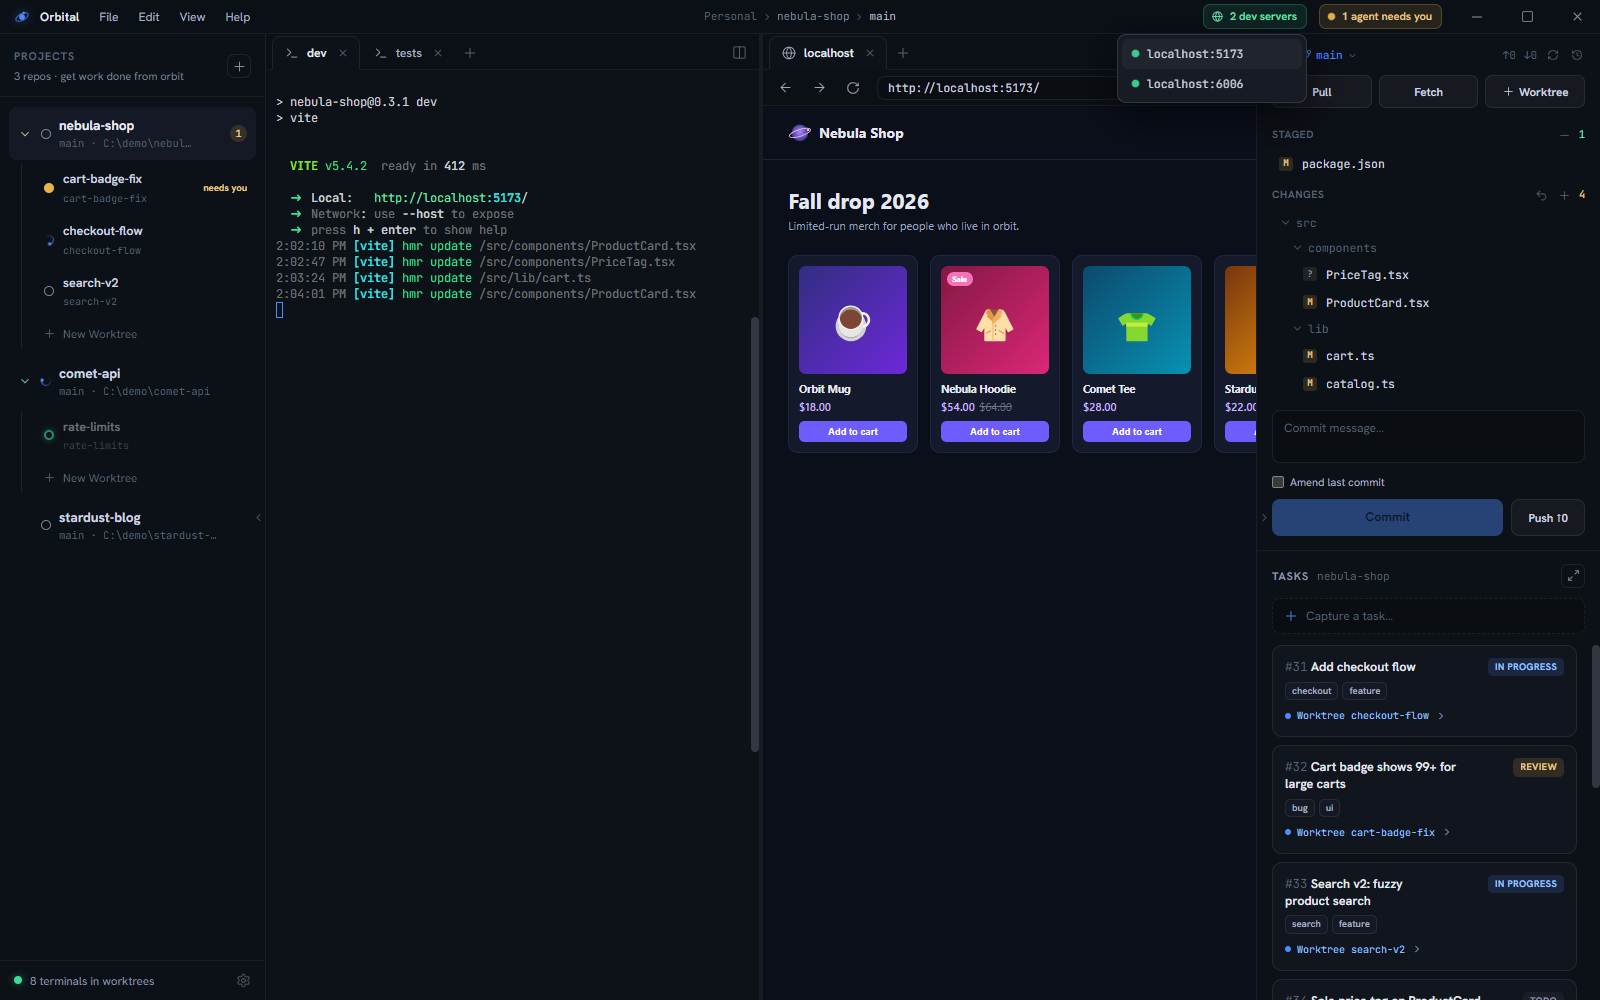
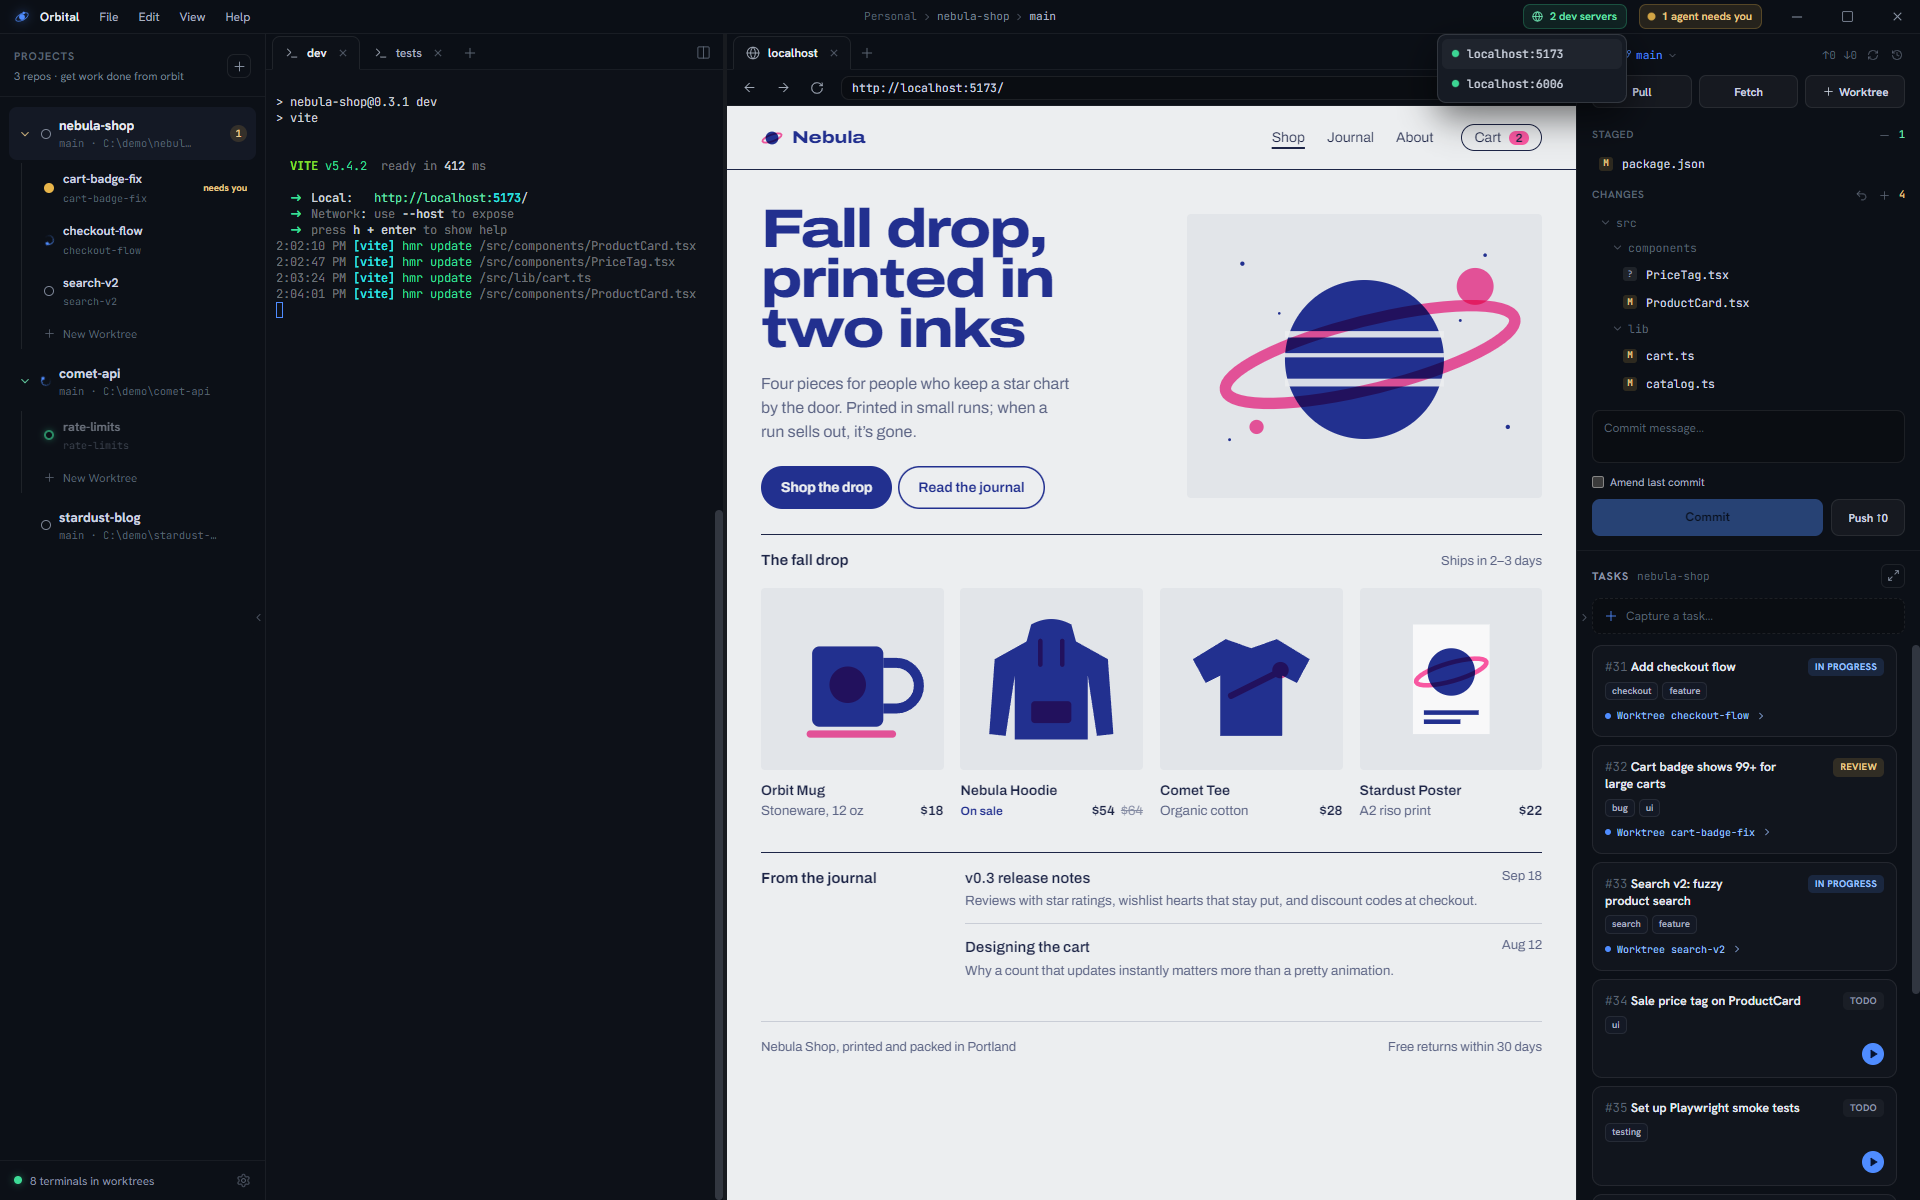
docs: editor features, retaken screenshots, titlebar dot fix
Document the editor work that shipped without docs: preview pills,
resizable file tree, folder tiles, selection-occurrence highlights,
code folding, and the find/replace widget, plus their shortcuts.

Retake all 20 website screenshots at 1920x1200 with a new demo
storefront in the browser pane, captured via capturePage() so the
pane isn't mis-scaled. Reset Starlight's sibling margin on the
mock window's titlebar dots so they line up.

Claude-Session: https://claude.ai/code/session_014gPtk3MdCMedKpoTyynXoQ

diff --git a/website/src/styles/custom.css b/website/src/styles/custom.css
@@ -397,6 +397,9 @@ h1[data-page-title] {
 }
 
 .ob-shot-bar i {
+  /* Starlight's markdown flow spacing adds margin-top to every sibling after the first. */
+  margin: 0;
+  flex: none;
   width: 9px;
   height: 9px;
   border-radius: 999px;
@@ -416,7 +419,7 @@ h1[data-page-title] {
   opacity: 0.7;
 }
 .ob-shot-bar span {
-  margin-left: 0.5rem;
+  margin: 0 0 0 0.5rem;
 }
 
 .ob-shot img {

diff --git a/website/src/content/docs/guides/editor.md b/website/src/content/docs/guides/editor.md
@@ -1,12 +1,12 @@
 ---
 title: The editor
-description: File tree, open-file pills, syntax-highlighted source and diffs, find in file, previews, images, and quick edits.
+description: File tree, folder tiles, open-file pills, syntax-highlighted source and diffs, code folding, find and replace, previews, images, and quick edits.
 ---
 
 An **editor tab** shows the active worktree's files: a tree on the left, and on
 the right a strip of open-file pills above the selected file.
 
-![The editor: file tree with icons and git badges, open-file pills, a line-number gutter and the find bar](../../../assets/screenshots/19-editor-file.png)
+![The editor: file tree with icons and git badges, open-file pills, a line-number gutter and the find-and-replace widget](../../../assets/screenshots/19-editor-file.png)
 
 ## Open files
 
@@ -18,6 +18,14 @@ back). Closing it asks whether to save, discard or cancel.
 Files from the git panel, the command palette and search results open as pills
 in the editor you're already using, instead of a new tab each.
 
+### Preview pills
+
+A single click on a file in the tree opens it as a **preview**: its pill label
+is italic, and the next single click replaces it rather than piling up another
+pill. Double-click the file (in the tree, a folder tile or its pill), edit it,
+or save it to keep it open. Files opened by name — from the git panel, the
+palette, a tab's config or **New File…** — open as kept pills straight away.
+
 ## The file tree
 
 - Tracked and untracked files, directories first. Each file has an icon for
@@ -28,6 +36,9 @@ in the editor you're already using, instead of a new tab each.
   ignored trees cost nothing until you open them.
 - Changed files carry their git badge (`M`, `A`, `D`, `?`, …); collapsed
   directories containing changes get an amber dot.
+- Drag the separator between the tree and the file to resize it. The width is
+  remembered; double-click the separator to reset it, or focus it and nudge
+  with the arrow keys.
 - The tree follows the repo live — agent edits and commits re-badge it
   automatically.
 - Right-click a row for **New File…**, **New Folder…**, **Rename…**, **Copy
@@ -35,6 +46,14 @@ in the editor you're already using, instead of a new tab each.
   default app, **Open in Terminal** (folders), git stage / unstage / discard,
   and **Delete** (to the recycle bin). Names are typed right in the menu, and
   names Windows can't represent (`CON`, a trailing dot, `:`) are refused.
+
+### Folder tiles
+
+Clicking a folder in the tree (or in the breadcrumb) also shows its entries as
+tiles in the content area. Images get real thumbnails, loaded as their tiles
+scroll into view; everything else shows its type icon. Click a file tile to
+preview it and double-click to keep it. Click a folder tile to select it, and
+double-click it (or press **Enter**) to go inside.
 
 ## File mode
 
@@ -49,19 +68,39 @@ switch to another pill. Right-click the text for Undo, Redo, Cut, Copy, Paste
 and Select All. It's for config tweaks and small fixes, not a replacement for
 your IDE.
 
+Selecting text highlights its other occurrences in the file, so you can see at
+a glance where else a name is used.
+
 Oversized files and diffs are refused up front with a message saying why,
 rather than freezing the tab.
 
-### Find in file
+### Code folding
 
-**Ctrl+F** opens a find bar over the top-right of the code, seeded with whatever
-you had selected. Every match is highlighted as you type and the current one is
-ringed; the count reads `3 of 17`.
+Chevrons beside the line numbers fold and unfold blocks. Fold ranges follow
+indentation; in Markdown they follow headings. A folded block collapses to its
+header line with a `...` chip; click the chip or the chevron to open it again.
+With the caret in a block, **Ctrl+Shift+[** folds it and **Ctrl+Shift+]**
+unfolds it. You can keep editing while code is folded — the hidden lines are
+left untouched and saved as they were.
+
+### Find and replace
+
+**Ctrl+F** opens a find widget over the top-right of the code, seeded with
+whatever you had selected. Every match is highlighted as you type and the
+current one is ringed; the count reads `3 of 17`.
 
 - **Enter** / **Shift+Enter** step forward and back, wrapping at the ends. So do
   **F3** / **Shift+F3**, which keep working while you carry on typing in the file.
-- **Aa** narrows to an exact-case match.
-- **Esc** closes the bar and leaves the caret on the match you stopped at.
+- Toggles in the find box narrow the search: **match case** (**Alt+C**),
+  **whole word** (**Alt+W**) and **regular expression** (**Alt+R**). A pattern
+  that doesn't compile is marked invalid instead of matching nothing silently.
+- **Ctrl+H**, or the chevron at the left of the widget, opens the replace row.
+  **Enter** there replaces the current match; **Ctrl+Alt+Enter** replaces them
+  all. With regex on, `$1` and named groups (`$<name>`) expand in the
+  replacement.
+- A replace is a single undo step, and **Replace all** reaches matches inside
+  folded code too.
+- **Esc** closes the widget and leaves the caret on the match you stopped at.
 
 Stepping only scrolls when the match is off screen, sideways as well as down —
 a hit past the right edge of a long line is no more found than one below the fold.

diff --git a/website/src/content/docs/reference/keyboard-shortcuts.md b/website/src/content/docs/reference/keyboard-shortcuts.md
@@ -49,9 +49,14 @@ terminal sees the key.
 |---|---|
 | Ctrl+S | Save the active file |
 | Ctrl+F | Find in file |
-| Enter / Shift+Enter | Next / previous match (in the find bar) |
+| Ctrl+H | Find and replace |
+| Enter / Shift+Enter | Next / previous match (in the find box) |
 | F3 / Shift+F3 | Next / previous match, while typing in the file |
-| Esc | Close the find bar |
+| Alt+C / Alt+W / Alt+R | Toggle match case / whole word / regex (in the find widget) |
+| Enter | Replace the current match (in the replace box) |
+| Ctrl+Alt+Enter | Replace all matches |
+| Esc | Close the find widget |
+| Ctrl+Shift+[ / Ctrl+Shift+] | Fold / unfold the block at the caret |
 | Tab | Indent (two spaces) |
 
 ## Git panel

diff --git a/README.md b/README.md
@@ -73,7 +73,8 @@ Code. The full product spec lives in
   cleans itself up.
 - **Browser** — plain-click a URL in any terminal and it opens as an in-app
   preview tab next to your agent; Ctrl+click sends it to your system browser.
-- **Editor** — a file tree with git-status badges, syntax-highlighted viewing,
+- **Editor** — a resizable file tree with git-status badges and folder tiles,
+  preview pills, syntax-highlighted viewing with code folding, find and replace,
   Markdown preview, staged/unstaged **diff views**, and light inline edits.
 - Terminal scrollback survives tab switches and pane moves — the PTY lives in
   the main process, the UI just reattaches.

diff --git a/.claude/skills/run-orbital/SKILL.md b/.claude/skills/run-orbital/SKILL.md
@@ -120,6 +120,11 @@ npm run dev   # electron-vite dev with renderer HMR (main/preload changes still 
 - **Inspecting the DB:** the repo's `better-sqlite3` is rebuilt for Electron's
   ABI, so plain `node` can't load it — use `python -c "import sqlite3; ..."`.
 
+- **`page.screenshot` mis-scales browser tabs.** The in-app browser pane's
+  page comes out zoomed (~2.4×) and looks clipped, though it lays out fine at
+  the pane's width. For any frame showing a browser tab, capture with
+  `BrowserWindow.capturePage()` via `app.evaluate` instead.
+
 ## Troubleshooting
 
 - **Launch timeout:** `out/` missing or stale → `npm run build`.
